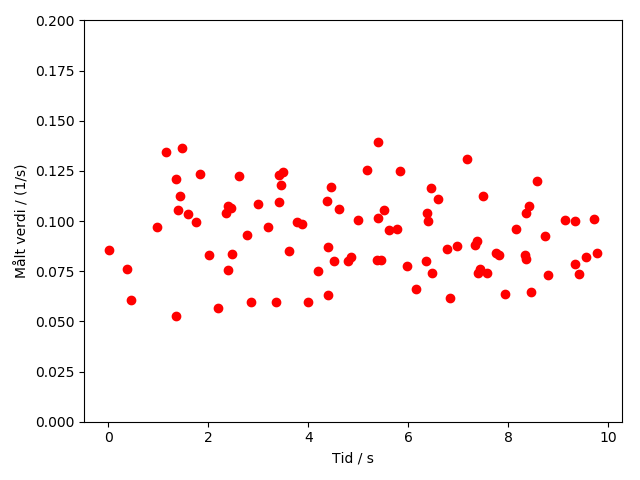
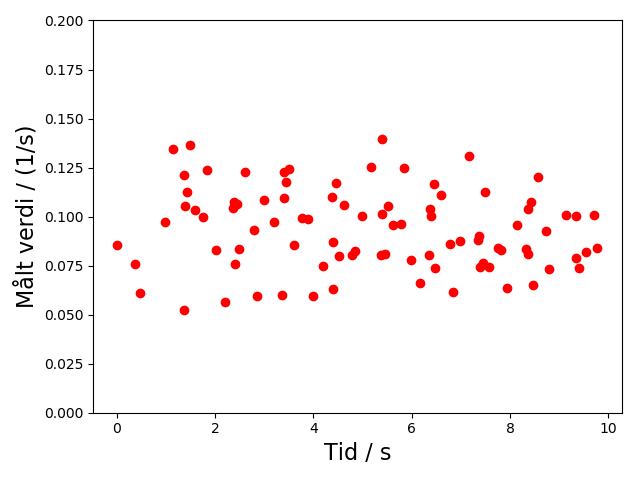
La til flere plots i gamma-estimasjonen

diff --git a/gammaAnalyse.py b/gammaAnalyse.py
@@ -49,8 +49,8 @@ def stderr(var, n):
 def plotData(dataset):
     plt.plot(dataset, 'ro')
     plt.ylim(0, 0.2)
-    plt.xlabel('Måling nr')
-    plt.ylabel('Målt verdi / (1/s)')
+    plt.xlabel('Måling nr', fontsize=16)
+    plt.ylabel('Målt verdi / (1/s)', fontsize=16)
     plt.show()
 
 
@@ -59,13 +59,13 @@ def plot_data_over_time(gammas, times):
     print("REGRESJONSANALYSE: ")
     print("Stigning:", slope, "\nSkjæringspunkt:", intercept, "\nStderr:", std_err,
           "\nP-verdi gitt at den er konstant:", p_value, "\nCorr:", r_value)
-    regtimes = np.array([0, 10])
-    regvals = np.array([intercept, intercept+10*slope])
+    # regtimes = np.array([0, 10])
+    # regvals = np.array([intercept, intercept+10*slope])
     plt.plot(times, gammas, 'ro')
-    plt.plot(regtimes, regvals)
+    # plt.plot(regtimes, regvals)
     plt.ylim(0, 0.2)
-    plt.xlabel('Tid / s')
-    plt.ylabel('Målt verdi / (1/s)')
+    plt.xlabel('Tid / s', fontsize=16)
+    plt.ylabel('Målt verdi / (1/s)', fontsize=16)
     plt.show()
 
 
